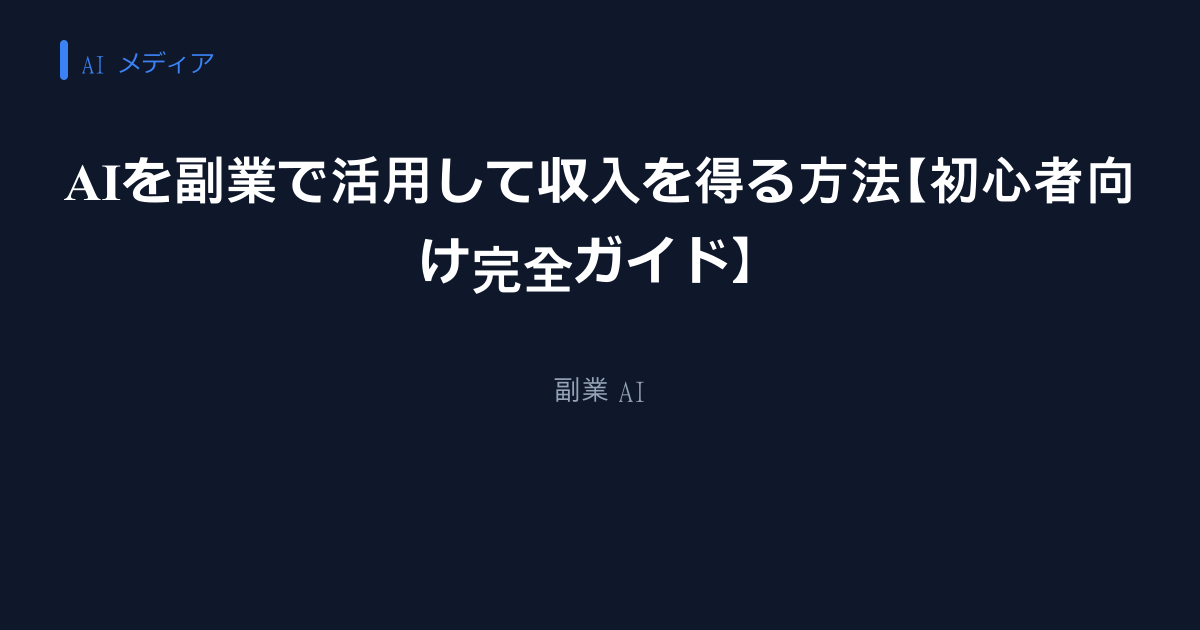
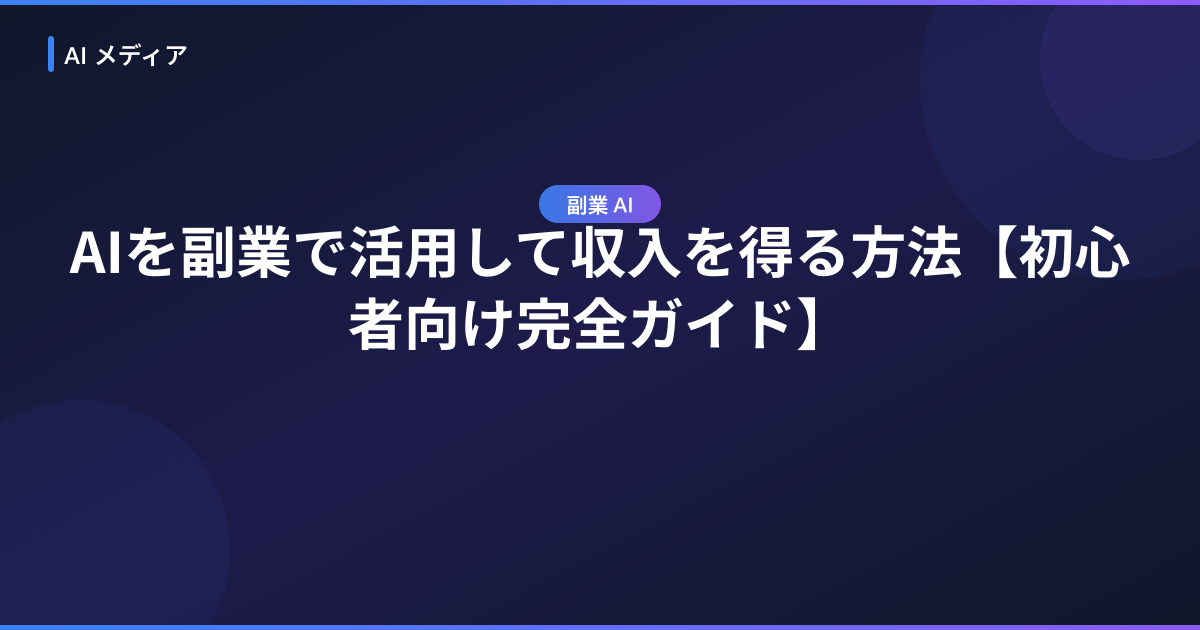
feat: OG画像デザイン改善・全記事の画像を再生成
- グラデーション背景・キーワードバッジ・テキストドロップシャドウを追加
- 下部/上部アクセントラインと装飾円でビジュアルを強化
- ローカル実行時のシークレット自動読み込み対応
- 全8記事のOG画像を新デザインで再生成

diff --git a/scripts/generate-og-image.ts b/scripts/generate-og-image.ts
@@ -1,12 +1,30 @@
 /**
  * OG画像自動生成スクリプト
  * Unsplash APIでキーワードに合った写真を取得し、タイトルオーバーレイを重ねる
- * UNSPLASH_ACCESS_KEY が未設定の場合は SVG フォールバック
+ * UNSPLASH_ACCESS_KEY が未設定の場合は C:\Users\fkdka\.secrets\.env を参照
+ * どちらもなければ SVG フォールバック
  */
 import sharp from 'sharp';
 import fs from 'fs/promises';
+import fsSync from 'fs';
 import path from 'path';
 import { fileURLToPath } from 'url';
+
+// ローカル実行用: シークレットフォルダの .env を自動読み込み
+function loadLocalSecrets(): void {
+  if (process.env.UNSPLASH_ACCESS_KEY) return; // 既にセット済み（GitHub Actions等）
+  const secretsEnv = 'C:\\Users\\fkdka\\.secrets\\.env';
+  try {
+    const content = fsSync.readFileSync(secretsEnv, 'utf-8');
+    for (const line of content.split(/\r?\n/)) {
+      const m = line.match(/^([A-Z_]+)\s*=\s*(.+)$/);
+      if (m) process.env[m[1]] = m[2].trim().replace(/^['"]|['"]$/g, '');
+    }
+  } catch {
+    // ファイルが存在しない場合は無視（GitHub Actions では env 経由で渡す）
+  }
+}
+loadLocalSecrets();
 
 const __dirname = path.dirname(fileURLToPath(import.meta.url));
 const ROOT = path.resolve(__dirname, '..');
@@ -16,6 +34,7 @@ const OG_DIR = path.join(ROOT, 'public', 'og');
 const OG_WIDTH = 1200;
 const OG_HEIGHT = 630;
 const ACCENT_COLOR = '#3b82f6';
+const SITE_NAME = 'AI メディア';
 
 function extractFrontmatter(content: string): Record<string, string> {
   const match = content.match(/^---\r?\n([\s\S]*?)\r?\n---/);
@@ -28,7 +47,11 @@ function extractFrontmatter(content: string): Record<string, string> {
   return result;
 }
 
-function wrapText(title: string, maxLen = 22): string[] {
+function escapeXml(s: string): string {
+  return s.replace(/&/g, '&amp;').replace(/</g, '&lt;').replace(/>/g, '&gt;').replace(/"/g, '&quot;');
+}
+
+function wrapText(title: string, maxLen = 20): string[] {
   const lines: string[] = [];
   let current = '';
   for (const char of title) {
@@ -39,30 +62,56 @@ function wrapText(title: string, maxLen = 22): string[] {
   return lines.slice(0, 3);
 }
 
-// Unsplash写真の上に重ねるグラデーション + タイトルテキスト SVG
-function buildOverlaySvg(title: string): string {
-  const lines = wrapText(title);
-  const lineHeight = 72;
+// Unsplash写真の上に重ねるオーバーレイ SVG（グラデーション + バッジ + タイトル）
+function buildOverlaySvg(title: string, keyword: string): string {
+  const lines = wrapText(title, 20);
+  const fontSize = lines.length <= 2 ? 56 : 48;
+  const lineHeight = fontSize + 16;
   const totalTextH = lines.length * lineHeight;
-  const textStartY = OG_HEIGHT - 120 - totalTextH + lineHeight;
+
+  // テキストブロックを下から130pxの位置に配置
+  const textBlockBottom = OG_HEIGHT - 130;
+  const textStartY = textBlockBottom - totalTextH + lineHeight;
 
   const textElements = lines
-    .map((line, i) => `<text x="80" y="${textStartY + i * lineHeight}" font-family="sans-serif" font-size="54" font-weight="bold" fill="white">${line}</text>`)
-    .join('\n');
+    .map((line, i) =>
+      `<text x="72" y="${textStartY + i * lineHeight}" font-family="'Noto Sans JP', 'Hiragino Kaku Gothic ProN', sans-serif" font-size="${fontSize}" font-weight="bold" fill="white" filter="url(#shadow)">${escapeXml(line)}</text>`,
+    )
+    .join('\n  ');
+
+  // キーワードバッジ
+  const kwText = escapeXml(keyword);
+  const kwWidth = Math.min(keyword.length * 18 + 32, 300);
 
   return `<svg width="${OG_WIDTH}" height="${OG_HEIGHT}" xmlns="http://www.w3.org/2000/svg">
   <defs>
     <linearGradient id="grad" x1="0" y1="0" x2="0" y2="1">
-      <stop offset="0%" stop-color="black" stop-opacity="0"/>
-      <stop offset="50%" stop-color="black" stop-opacity="0.3"/>
-      <stop offset="100%" stop-color="black" stop-opacity="0.85"/>
+      <stop offset="0%"   stop-color="#000000" stop-opacity="0"/>
+      <stop offset="40%"  stop-color="#000000" stop-opacity="0.2"/>
+      <stop offset="100%" stop-color="#000000" stop-opacity="0.88"/>
     </linearGradient>
+    <filter id="shadow" x="-5%" y="-5%" width="110%" height="130%">
+      <feDropShadow dx="0" dy="2" stdDeviation="4" flood-color="black" flood-opacity="0.6"/>
+    </filter>
   </defs>
   <rect width="${OG_WIDTH}" height="${OG_HEIGHT}" fill="url(#grad)"/>
-  <rect x="60" y="${OG_HEIGHT - 110}" width="8" height="44" fill="${ACCENT_COLOR}" rx="4"/>
-  <text x="82" y="${OG_HEIGHT - 74}" font-family="sans-serif" font-size="22" fill="${ACCENT_COLOR}">AI メディア</text>
+
+  <!-- サイト名（左上） -->
+  <rect x="48" y="44" width="6" height="36" fill="${ACCENT_COLOR}" rx="3"/>
+  <text x="64" y="72" font-family="sans-serif" font-size="24" font-weight="600" fill="white">${SITE_NAME}</text>
+
+  <!-- キーワードバッジ（タイトルの上） -->
+  <rect x="68" y="${textStartY - lineHeight - 12}" width="${kwWidth}" height="36" rx="18" fill="${ACCENT_COLOR}" fill-opacity="0.9"/>
+  <text x="${68 + kwWidth / 2}" y="${textStartY - lineHeight + 9}" font-family="sans-serif" font-size="20" font-weight="600" fill="white" text-anchor="middle">${kwText}</text>
+
+  <!-- タイトル -->
   ${textElements}
-  <text x="${OG_WIDTH - 20}" y="${OG_HEIGHT - 20}" font-family="sans-serif" font-size="18" fill="#94a3b8" text-anchor="end">Photo: Unsplash</text>
+
+  <!-- 下部アクセントライン -->
+  <rect x="0" y="${OG_HEIGHT - 6}" width="${OG_WIDTH}" height="6" fill="${ACCENT_COLOR}"/>
+
+  <!-- Photo credit -->
+  <text x="${OG_WIDTH - 16}" y="${OG_HEIGHT - 16}" font-family="sans-serif" font-size="16" fill="rgba(255,255,255,0.5)" text-anchor="end">Photo: Unsplash</text>
 </svg>`;
 }
 
@@ -95,20 +144,62 @@ async function fetchUnsplashPhoto(keyword: string): Promise<Buffer | null> {
   }
 }
 
-// フォールバック: SVGのみのOG画像
+// フォールバック: グラデーション背景 + 装飾のSVG OG画像
 function buildFallbackSvg(title: string, keyword: string): string {
-  const lines = wrapText(title);
-  const lineHeight = 80;
-  const startY = 240 - ((lines.length - 1) * lineHeight) / 2;
+  const lines = wrapText(title, 20);
+  const fontSize = lines.length <= 2 ? 56 : 48;
+  const lineHeight = fontSize + 16;
+  const totalTextH = lines.length * lineHeight;
+  const textStartY = OG_HEIGHT / 2 - totalTextH / 2 + 30;
+
   const textElements = lines
-    .map((line, i) => `<text x="600" y="${startY + i * lineHeight}" font-family="sans-serif" font-size="52" font-weight="bold" fill="white" text-anchor="middle">${line}</text>`)
-    .join('\n');
+    .map((line, i) =>
+      `<text x="600" y="${textStartY + i * lineHeight}" font-family="'Noto Sans JP', 'Hiragino Kaku Gothic ProN', sans-serif" font-size="${fontSize}" font-weight="bold" fill="white" text-anchor="middle">${escapeXml(line)}</text>`,
+    )
+    .join('\n  ');
+
+  const kwText = escapeXml(keyword);
+  const kwWidth = Math.min(keyword.length * 18 + 32, 320);
+
   return `<svg width="${OG_WIDTH}" height="${OG_HEIGHT}" xmlns="http://www.w3.org/2000/svg">
-  <rect width="${OG_WIDTH}" height="${OG_HEIGHT}" fill="rgb(15,23,42)"/>
-  <rect x="60" y="40" width="8" height="40" fill="${ACCENT_COLOR}" rx="4"/>
-  <text x="82" y="72" font-family="sans-serif" font-size="24" fill="${ACCENT_COLOR}">AI メディア</text>
+  <defs>
+    <linearGradient id="bg" x1="0" y1="0" x2="1" y2="1">
+      <stop offset="0%"   stop-color="#0f172a"/>
+      <stop offset="50%"  stop-color="#1e1b4b"/>
+      <stop offset="100%" stop-color="#0f172a"/>
+    </linearGradient>
+    <linearGradient id="accent" x1="0" y1="0" x2="1" y2="0">
+      <stop offset="0%"   stop-color="${ACCENT_COLOR}"/>
+      <stop offset="100%" stop-color="#8b5cf6"/>
+    </linearGradient>
+  </defs>
+
+  <!-- 背景 -->
+  <rect width="${OG_WIDTH}" height="${OG_HEIGHT}" fill="url(#bg)"/>
+
+  <!-- 装飾: 右上の円 -->
+  <circle cx="${OG_WIDTH - 80}" cy="80" r="200" fill="#3b82f6" fill-opacity="0.06"/>
+  <circle cx="${OG_WIDTH - 60}" cy="60" r="100" fill="#8b5cf6" fill-opacity="0.08"/>
+
+  <!-- 装飾: 左下の円 -->
+  <circle cx="80" cy="${OG_HEIGHT - 80}" r="150" fill="${ACCENT_COLOR}" fill-opacity="0.06"/>
+
+  <!-- 上部アクセントライン -->
+  <rect x="0" y="0" width="${OG_WIDTH}" height="5" fill="url(#accent)"/>
+
+  <!-- サイト名（左上） -->
+  <rect x="48" y="36" width="6" height="36" fill="${ACCENT_COLOR}" rx="3"/>
+  <text x="64" y="64" font-family="sans-serif" font-size="24" font-weight="600" fill="white">${SITE_NAME}</text>
+
+  <!-- キーワードバッジ -->
+  <rect x="${600 - kwWidth / 2}" y="${textStartY - lineHeight - 16}" width="${kwWidth}" height="38" rx="19" fill="url(#accent)" fill-opacity="0.9"/>
+  <text x="600" y="${textStartY - lineHeight + 12}" font-family="sans-serif" font-size="21" font-weight="600" fill="white" text-anchor="middle">${kwText}</text>
+
+  <!-- タイトル -->
   ${textElements}
-  <text x="600" y="${startY + lines.length * lineHeight + 40}" font-family="sans-serif" font-size="28" fill="#94a3b8" text-anchor="middle">${keyword}</text>
+
+  <!-- 下部アクセントライン -->
+  <rect x="0" y="${OG_HEIGHT - 5}" width="${OG_WIDTH}" height="5" fill="url(#accent)"/>
 </svg>`;
 }
 
@@ -122,7 +213,7 @@ async function generateOgImage(slug: string, title: string, keyword: string): Pr
   const photoBuffer = await fetchUnsplashPhoto(keyword);
 
   if (photoBuffer) {
-    const overlay = buildOverlaySvg(title);
+    const overlay = buildOverlaySvg(title, keyword);
     await sharp(photoBuffer)
       .resize(OG_WIDTH, OG_HEIGHT, { fit: 'cover', position: 'center' })
       .composite([{ input: Buffer.from(overlay), top: 0, left: 0 }])
